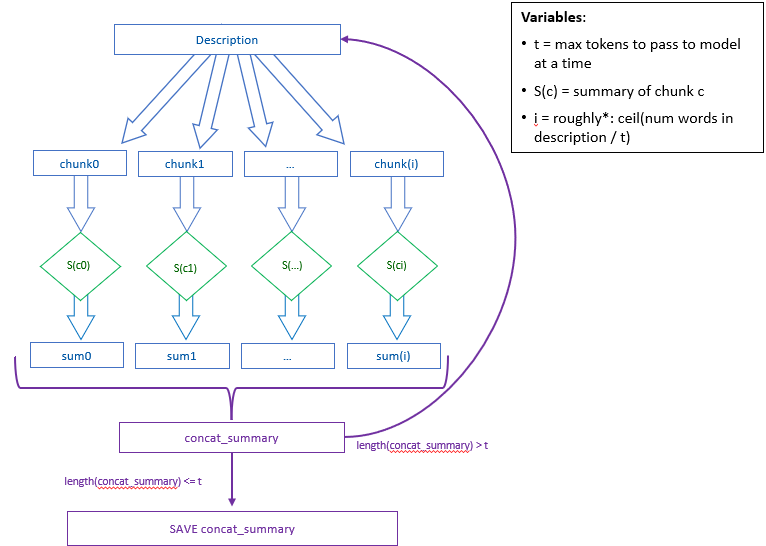
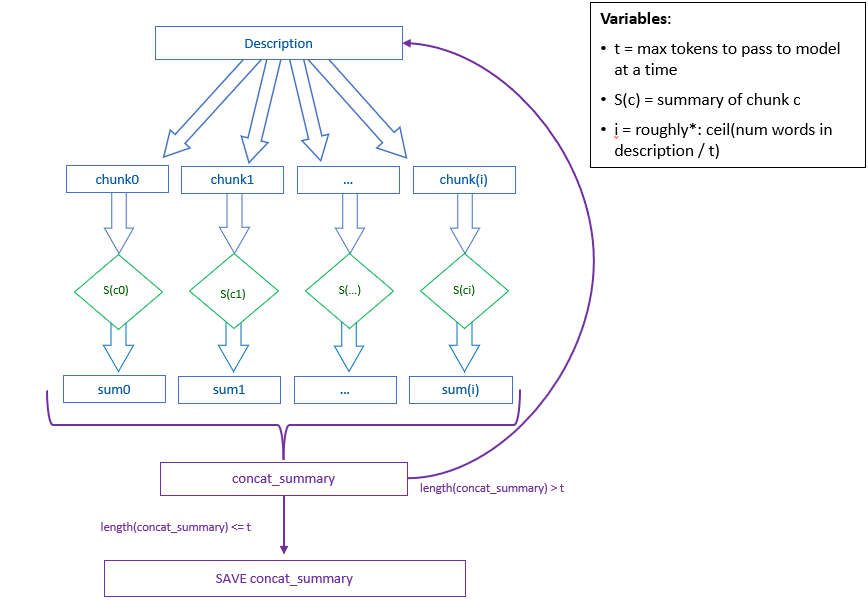
key takeaways

Changed region(s): [[0.0, 0.0, 1.0, 1.0], [0.6305, 0.5604, 0.6606, 0.6538]]

diff --git a/openingoracle/src/About/About.js b/openingoracle/src/About/About.js
@@ -1,4 +1,9 @@
 import "./About.css"
+import LDA from "../Images/LDAModel.png"
+import precomputed from "../Images/precomputed.png"
+import runtime from "../Images/runtimeProcess.png"
+
+
 
 function About() {
     return (
@@ -19,8 +24,18 @@ function About() {
             <p className="center">How can we assess accuracy of recommended openings?</p>
 
             <h2>Key Takeaways</h2>
-                
-                <img src='../Images/LDAModel.png' alt="Pic"/>;
+            <p>One key takeaway from the project was designing a fully functioning and comprehensive system. For our system, we start with the user query. The user inputs some block of text, and we tokenize the text, and then feed that into the models. We have a <a href="https://en.wikipedia.org/wiki/Latent_Dirichlet_allocation"> trained LDA model</a> that splits the text into 10 topics, we have index matching which is pure tf, no idf, and we have success rate, which is the winning percentage for a given opening. After LDA, index matching and success rate are calculated and weighted, they are averaged, and based off of the scores, the top 5 matches for openings are returned. The returned openings are then summarized, and returned to the user in order. We discovered that in order to maximize the potential of this application, we would be best off precomputing most of the work, so at runtime, the user doesn't have to wait for long. We precomputed the LDA model, the index matching, the success rate, and most of the summary work.   </p>
+            <img src={precomputed} alt="precomputed" />
+            <img src={runtime} alt="runtime" />
+
+            <br></br>
+            <br></br>
+            <br></br>
+
+            <p>Another key takeaway from the project was how to interact with and train an LDA model, and the intricacies that come with that. This is a brief breakdown of the LDA model we trained. To start, we feed a tokenized description to the model. This could be either the user's query, or a description of an opening. The model then breaks the text down into chunks of no greater than 1024 tokens (The exact number is specific to the model used). It does this “i” times, with “i” roughly being the number of words in the description divided by t, which is 1024 for this model. Each of these chunks then gives a summary between 10 to 50 words. (The length of the summaries can be changed). The summaries are all concatenated. If the length of the concatenated summaries is greater than t (1024), then the process is done again, with the concatenated summary being re-split into “i” chunks, and each chunk being summarized once again. The process repeats until the concatenated summary is less than 1024 tokens. Once this happens, the summary goes through the model one final time before it is done. This is to get a summary of all the concatenated summaries, as one final summary.</p>
+            <img src={LDA} alt="LDA" />
+
+
 
             <h2>External Resources and Data Used</h2>
             <p>Our <a className="link" href="https://github.com/jjheals/OpeningOracle/">Github</a> and <a className="link" href="https://github.com/jjheals/OpeningOracle/blob/main/README.md">README</a>, with instructions on running our code and installing dependencies.</p>
